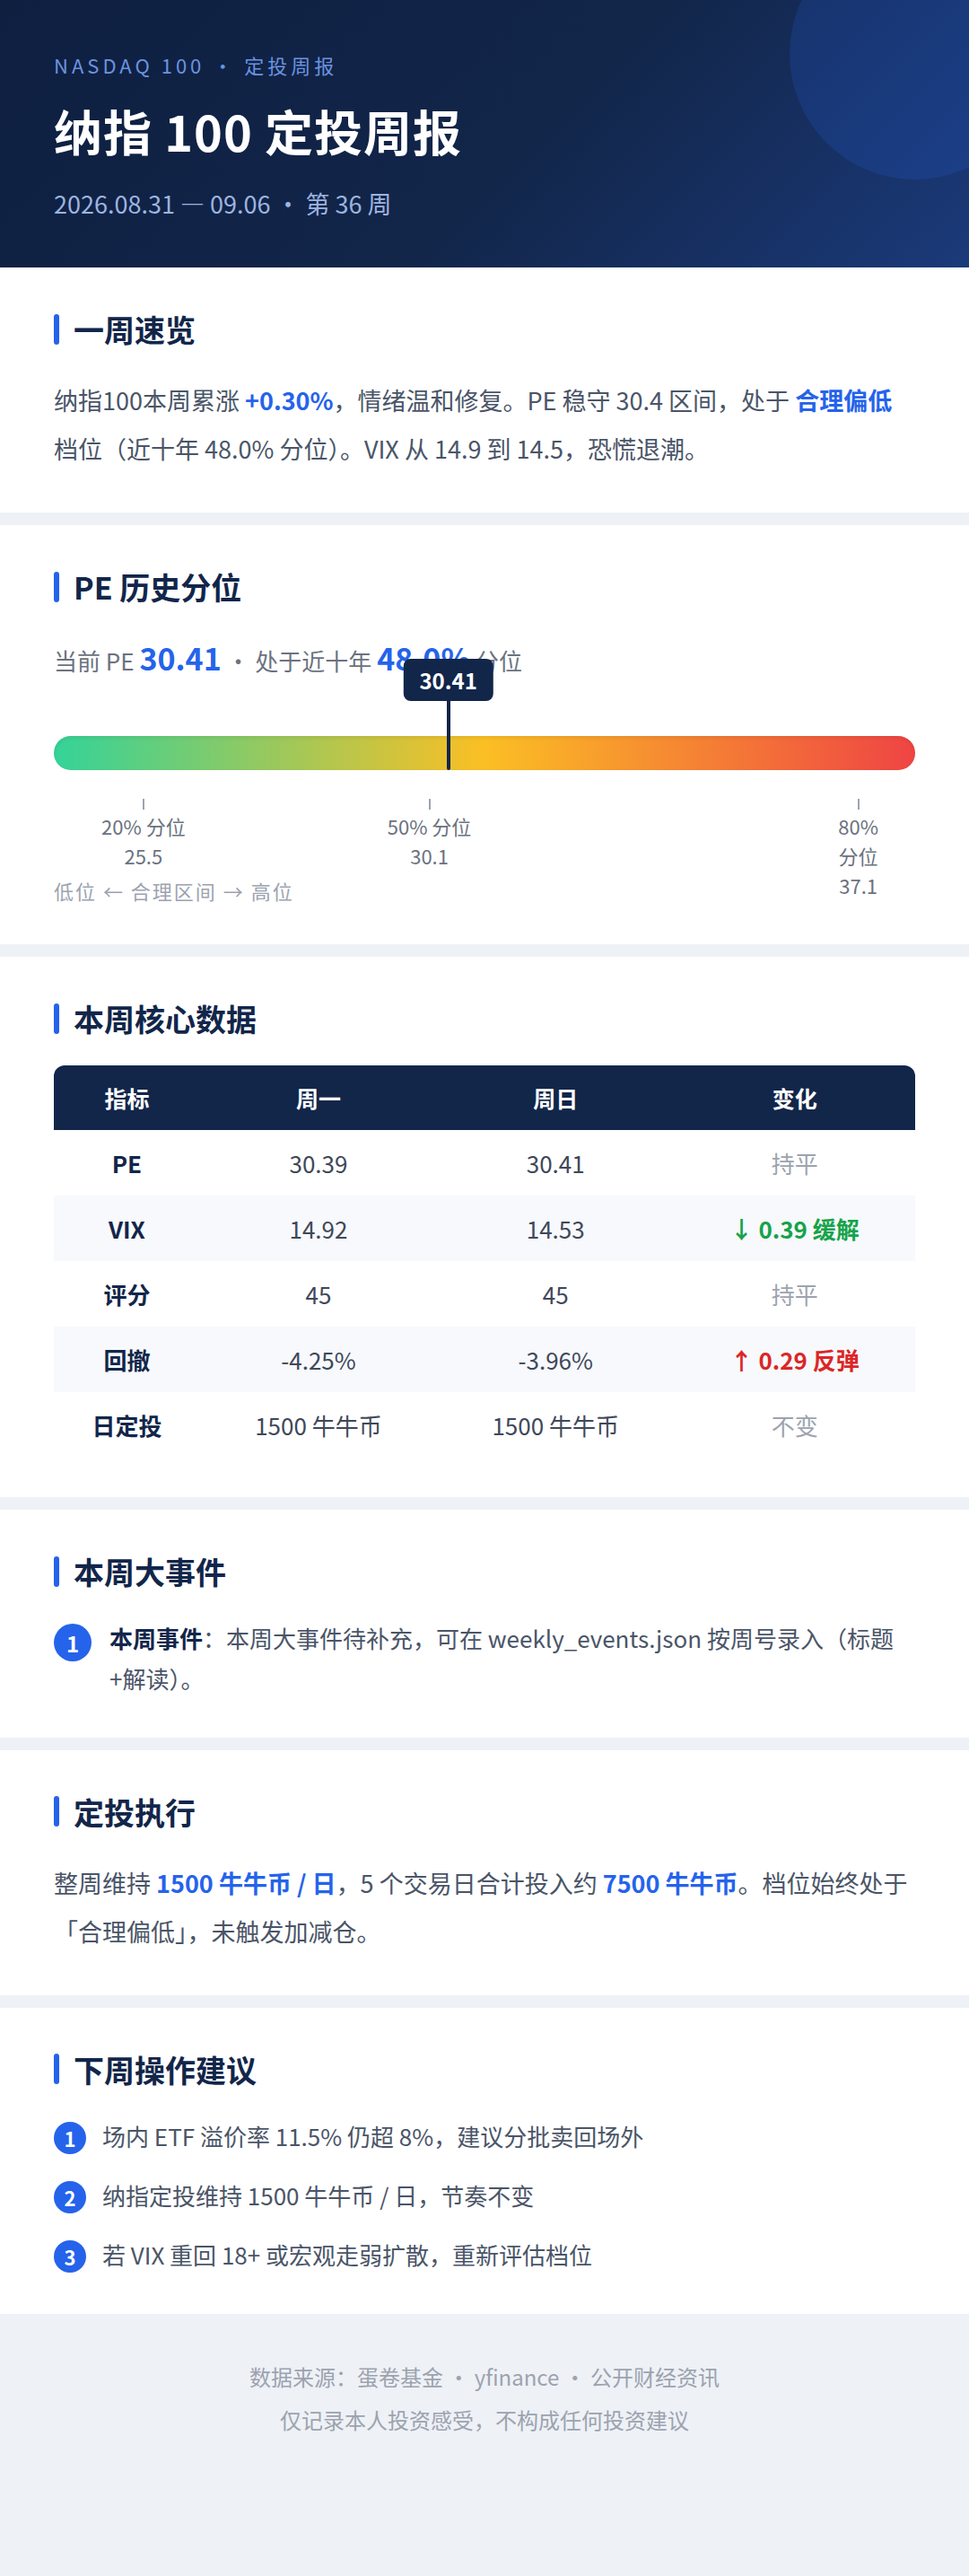
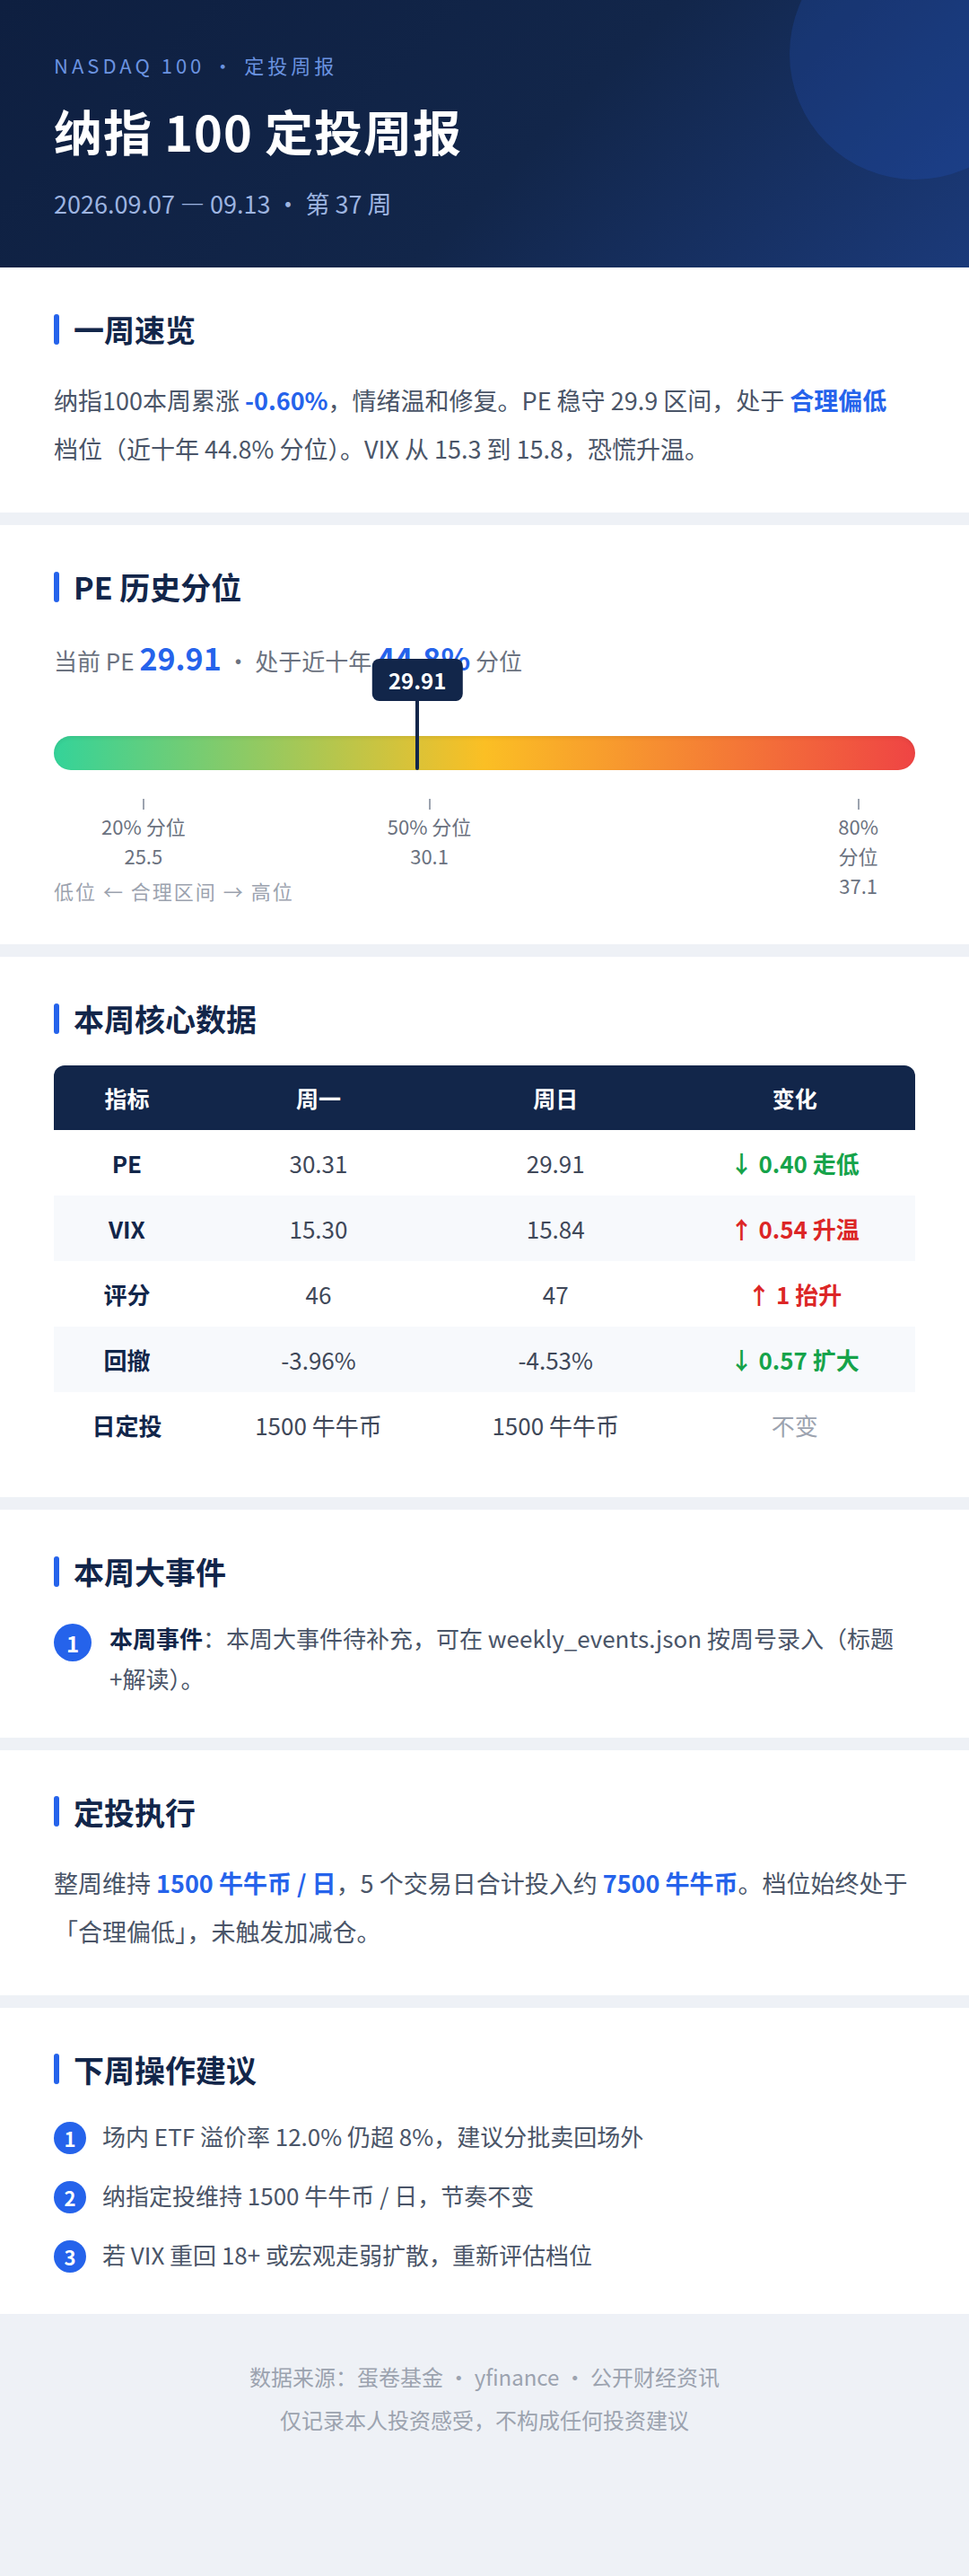
📰 周报 2026-09-12 第37周

diff --git a/weekly/index.html b/weekly/index.html
@@ -1,7 +1,7 @@
 <!DOCTYPE html>
 <html lang="zh-CN"><head><meta charset="UTF-8">
 <meta name="viewport" content="width=device-width,initial-scale=1">
-<title>纳指100定投周报 · 第 36 周</title>
+<title>纳指100定投周报 · 第 37 周</title>
 <style>
 body{margin:0;background:#eef1f6;font-family:-apple-system,'PingFang SC','Microsoft YaHei','Noto Sans CJK SC',sans-serif}
 .wrap{max-width:1080px;margin:0 auto;padding:20px}
@@ -11,8 +11,8 @@ img{width:100%;height:auto;display:block;border-radius:8px;box-shadow:0 2px 10px
 .tip{text-align:center;color:#6b7280;font-size:13px;margin:14px 0}
 </style></head>
 <body><div class="wrap">
-<h1>纳指100 定投周报 · 第 36 周</h1>
-<div class="sub">2026.08.31 — 09.06</div>
+<h1>纳指100 定投周报 · 第 37 周</h1>
+<div class="sub">2026.09.07 — 09.13</div>
 <img src="周报.png" alt="周报长图">
 <div class="tip">长按 / 右键图片即可保存 · 数据来源：蛋卷基金 · yfinance · 公开财经资讯 · 仅供参考不构成投资建议</div>
 </div></body></html>
